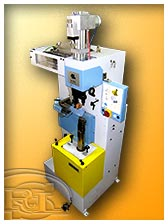
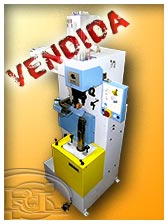
Added: Rebatir ASPERIA. Removed: Rebatir AA. Sold: Clavar tac. BRUSTIA PTP 3000

Changed region(s): [[0.0, 0.0, 0.8036, 0.4062]]

diff --git a/maquinas/rebatir/maqUs_rebatir-con-rodillo-de-anillas_ASPERIA.htm b/maquinas/rebatir/maqUs_rebatir-con-rodillo-de-anillas_ASPERIA.htm
@@ -3,9 +3,9 @@
 
 <head>
 <meta http-equiv="Content-Type" content="text/html; charset=utf-8" />
-<title>RaLoS, Maquinaria USADA para Calzado | Máquina de Rebatir con Rodillo de Lija 'AA'</title>
-<meta name="keywords" content="rebatir aa, lijar aa, rebatir lijar, maquina rebatir, maquina rebatir ocasion, maquina rebatir usada, maquina rebatir zapato, rebatir usada, rebatir ocasion, rebatir calzado, rebatir zapatos, rebatir segunda mano, rebatir piel, maquinaria usada zapatos, maquinas usadas zapatos, segunda mano, ocasion, ralos, Elda, Alicante" />
-<meta name="description" content="RaLoS MAQUINARIA, dispone de una máquina para rebatir el zapato marca 'AA', con rodillo de lija, de ocasión y totalmente resturada, ¡visítanos!" />
+<title>RaLoS, Maquinaria USADA para Calzado | Máquina de Rebatir con Rodillo de Anillas 'ASPERIA'</title>
+<meta name="keywords" content="rebatir asperia, rebatir, maquina rebatir, maquina rebatir ocasion, maquina rebatir usada, maquina rebatir zapato, rebatir usada, rebatir ocasion, rebatir calzado, rebatir zapatos, rebatir segunda mano, rebatir piel, maquinaria usada zapatos, maquinas usadas zapatos, segunda mano, ocasion, ralos, Elda, Alicante" />
+<meta name="description" content="RaLoS MAQUINARIA, dispone de una máquina para rebatir el zapato marca 'ASPERIA', con rodillo de anillas, de ocasión y totalmente resturada, ¡visítanos!" />
 <meta name="creation_Date" content="02/02/2010" />
 <meta name="geography" content="Fundadores de la Industria del Calzado, 4 (Bajos) - Elda (Alicante) 03600 SPAIN" />
 <meta name="language" content="spanish, español" />
@@ -87,14 +87,14 @@ counter++;
   	<div id="mainLogo"><a href="../../index.htm" target="_parent"><img src="../../assets/logoRalos.gif" alt="Inicio" name="logoRalos" width="324" height="102" border="0" /></a></div>
   	<!--<div id="mainLogoBg"></div>-->
   	<div class="divider1"></div>
-		<h1 style="text-decoration: none; margin-bottom: 0px">RaLoS, MAQUINARIA USADA: Máquina de Rebatir con Rodillo de Lija &quot;AA&quot;</h1>
+		<h1 style="text-decoration: none; margin-bottom: 0px">RaLoS, MAQUINARIA USADA: Máquina de Rebatir con Rodillo de Anillas &quot;ASPERIA&quot;</h1>
 <div class="divider2"></div>
     <div id="productContainer">
 			<ul>       
         <li id="n001">
         	<div class="liContainer"><a href="#n002" target="_self" title="Haz clic aquí para ir a la siguiente imagen.">
             <img class="outerImg" src="../../images/_mac_vOuterFrame_mTn.png" alt=""/>
-            <img class="vInnerImg" src="maqUs_rebatirConRodilloDeLija_AA_01hTn.jpg" alt="Máquina de Rebatir con Rodillo de Lija 'AA' 1"/>
+            <img class="vInnerImg" src="maqUs_rebatir-con-rodillo-de-anillas_ASPERIA_1h-v.jpg" alt="Máquina de Rebatir con Rodillo de Anillas 'ASPERIA' 1"/>
             <img class="spanPosFix" src="../../images/_mac_vOuterFrameFix_mTn.gif" alt=""/>
             <span></span></a>
           </div>
@@ -103,7 +103,7 @@ counter++;
         <li id="n002">
         	<div class="liContainer"><a href="#n003" target="_self" title="Haz clic aquí para ir a la siguiente imagen.">
             <img class="outerImg" src="../../images/_mac_hOuterFrame_mTn.png" alt=""/>
-            <img class="hInnerImg" src="maqUs_rebatirConRodilloDeLija_AA_01ahTn.jpg" alt="Máquina de Rebatir con Rodillo de Lija 'AA' 2"/>
+            <img class="hInnerImg" src="maqUs_rebatir-con-rodillo-de-anillas_ASPERIA_2h-h.jpg" alt="Máquina de Rebatir con Rodillo de Anillas 'ASPERIA' 2"/>
             <img class="spanPosFix" src="../../images/_mac_hOuterFrameFix_mTn.gif" alt=""/>
             <span></span></a>
           </div>
@@ -112,7 +112,7 @@ counter++;
         <li id="n003">
         	<div class="liContainer"><a href="#productDescription" target="_self" title="Haz clic aquí para ir a la información de la máquina.">
             <img class="outerImg" src="../../images/_mac_vOuterFrame_mTn.png" alt=""/>
-            <img class="vInnerImg" src="maqUs_rebatirConRodilloDeLija_AA_02hTn.jpg" alt="Máquina de Rebatir con Rodillo de Lija 'AA' 3"/>
+            <img class="vInnerImg" src="maqUs_rebatir-con-rodillo-de-anillas_ASPERIA_3h-v.jpg" alt="Máquina de Rebatir con Rodillo de Anillas 'ASPERIA' 3"/>
             <img class="spanPosFix" src="../../images/_mac_vOuterFrameFix_mTn.gif" alt=""/>
             <span></span></a>
           </div>
@@ -127,29 +127,29 @@ counter++;
           <th colspan="4" bgcolor="#FFFFFF"><h4>DESCRIPCIÓN DE LA MÁQUINA</h4></th>
         </tr>
         <tr>
-       		<td colspan="4"><p><span class="boldText">RaLoS</span> dispone de una máquina de  rebatir con rodillo de lija <span class="boldText">&quot;AA&quot;</span> de segunda mano, totalmente restaurada y lista para trabajar.</p>
-            <p>La máquina de rebatir <span class="boldText">&quot;AA&quot;</span>, está especialmente diseñada para resolver los problemas de acumulación de piel en el proceso de montado del zapato mediante el rebatido de la misma, manteniendo limpio en todo momento el trabajo realizado, gracias al aspirador de polvo incorporado.</p></td>
+       		<td colspan="4"><p><span class="boldText">RaLoS</span> dispone de una máquina de  rebatir con rodillo de anillas <span class="boldText">&quot;ASPERIA&quot;</span> de segunda mano, totalmente restaurada y lista para trabajar.</p>
+            <p>La máquina de rebatir <span class="boldText">&quot;ASPERIA&quot;</span>, está especialmente diseñada para resolver los problemas de acumulación de piel en el proceso de montado del zapato mediante el rebatido de la misma.</p></td>
         </tr>
         <tr bgcolor="#FFFFFF">
           <th colspan="4"><h4>CARACTERÍSTICAS TÉCNICAS</h4></th>
         </tr>
         <tr>
           <td width="50%" colspan="2"><span class="boldText">Conex. Eléctrica: </span>380 V - 50 Hz</td>
-          <td width="50%" colspan="2"><span class="boldText">Dimens. (An./Al./Pr.):</span> 94 x 134 x 52 cm</td>
+          <td width="50%" colspan="2"><span class="boldText">Dimens. (An./Al./Pr.):</span> 70 x 136 x 64 cm</td>
         </tr>
         <tr>
-          <td width="50%" colspan="2"><span class="boldText">Potencia Instalada:</span> 0,75 kW</td>
+          <td width="50%" colspan="2"><span class="boldText">Potencia del Motor:</span> 1,25 kW</td>
           <td width="50%" colspan="2"><span class="boldText">Cubicaje:</span> N/D</td>
         </tr>
         <tr>
-          <td width="50%" colspan="2"><span class="boldText">Producción:</span> +- 1.200 pares/8h</td>
-          <td width="50%" colspan="2"><span class="boldText">Peso Neto (Aprox):</span> 160 Kg</td>
+          <td width="50%" colspan="2"><span class="boldText">Velocidad de Motor:</span> 1.400 r.p.m.</td>
+          <td width="50%" colspan="2"><span class="boldText">Peso Neto (Aprox):</span> N/D</td>
         </tr>
         <tr bgcolor="#FFFFFF">
           <th colspan="4"><h4>CARACTERÍSTICAS DE TRABAJO</h4></th>
         </tr>
 				<tr>
-       		<td colspan="4"><p>La máquina está dotada de un rodillo de anillas independientes de acero templado, así como de un barrón de lija y martillos calefactados para sentar tanto los talones como los cantos de la punta, el empeine, los enfranques y los lados del zapato, porporcionándole así un excelente acabado y un ajuste perfecto con la planta.</p></td>
+       		<td colspan="4"><p>La máquina está dotada tanto de un rodillo de anillas independientes de acero templado como de martillos calefactados para sentar los talones y los cantos de la punta, el empeine, los enfranques y los lados del zapato, porporcionando así un excelente acabado y un ajuste perfecto con la planta.</p></td>
         </tr>
 
         <tr id="rowInfoHead">
@@ -162,7 +162,7 @@ counter++;
           <td width="25%" class="boldText">Disponible</td>
           <td width="50%" colspan="2">Restaurada</td>
         <!--<td width="50%" colspan="2">Máquina revisada en nuestro taller.</td>-->
-          <td width="25%"><a href="http://www.ralosmaquinaria.com/mainFrameContact.htm?Maquina+de+Rebatir+con+Rodillo+de+Lija&'AA'&(OCASION)#formContainer" title="Ir al Formulario de Consulta" target="_self" class="boldText">Consultar</a></td>
+          <td width="25%"><a href="http://www.ralosmaquinaria.com/mainFrameContact.htm?Maquina+de+Rebatir+con+Rodillo+de+Anillas&'ASPERIA'&(OCASION)#formContainer" title="Ir al Formulario de Consulta" target="_self" class="boldText">Consultar</a></td>
   				</tr>
 			</table>
 		</div><!--end productDescription-->

diff --git a/maquinas/clavar/maqUs_clavarTacones_BRUSTIA_PTP_3000.htm b/maquinas/clavar/maqUs_clavarTacones_BRUSTIA_PTP_3000.htm
@@ -87,7 +87,7 @@ counter++;
   	<div id="mainLogo"><a href="../../index.htm" target="_parent"><img src="../../assets/logoRalos.gif" alt="Inicio" name="logoRalos" width="324" height="102" border="0" /></a></div>
   	<!--<div id="mainLogoBg"></div>-->
   	<div class="divider1"></div>
-		<h1 style="text-decoration: none; margin-bottom: 0px">RaLoS, MAQUINARIA USADA: Máquina de Clavar Tacones &quot;BRUSTIA&nbsp;PTP&nbsp;3000&quot;</h1>
+		<h1 style="text-decoration: none; margin-bottom: 0px">RaLoS, MAQUINARIA USADA: Máquina de Clavar Tacones &quot;BRUSTIA&nbsp;PTP&nbsp;3000&quot; (VENDIDA)</h1>
     <div class="divider2"></div>
     <div id="productContainer">
 			<ul>       
@@ -127,7 +127,7 @@ counter++;
           <th colspan="4" bgcolor="#FFFFFF"><h4>DESCRIPCIÓN DE LA MÁQUINA</h4></th>
         </tr>
         <tr>
-       		<td colspan="4"><p><span class="boldText">RaLoS</span> dispone de una máquina de clavar tacones automática, neumática y con secuencia de clavado programable <span class="boldText">&quot;BRUSTIA PTP 3000&quot;</span> de segunda mano, en perfecto estado y lista para trabajar.</p></td>
+       		<td colspan="4"><p><span class="boldText">RaLoS</span> <span class="lThrought">dispone</span> de una máquina de clavar tacones automática, neumática y con secuencia de clavado programable <span class="boldText">&quot;BRUSTIA PTP 3000&quot;</span> de segunda mano, en perfecto estado y lista para trabajar.</p></td>
         </tr>
         <tr bgcolor="#FFFFFF">
           <th colspan="4"><h4>CARACTERÍSTICAS TÉCNICAS</h4></th>
@@ -166,7 +166,7 @@ counter++;
         </tr>
 
         <tr id="rowInfo">
-          <td width="25%" class="boldText">Disponible</td>
+          <td width="25%" class="boldText">No disponible</td>
           <td width="50%" colspan="2">En condiciones de trabajo.</td>
         <!--<td width="50%" colspan="2">Máquina revisada en nuestro taller.</td>-->
           <td width="25%"><a href="http://www.ralosmaquinaria.com/mainFrameContact.htm?Maquina+de+Clavar+Tacones&'BRUSTIA+PTP+3000'&(OCASION)#formContainer" title="Ir al Formulario de Consulta" target="_self" class="boldText">Consultar</a></td>

diff --git a/index.htm b/index.htm
@@ -815,11 +815,11 @@ div .mainFooterContent {
         </li>
 
         <li>
-					<div class="liContainer"><a href="maquinas/rebatir/maqUs_rebatirConRodilloDeLija_AA.htm" target="mainFrame" title="Ver Máquina de Rebatir Zapato con Rodillo de Lija &quot;AA&quot;">
+					<div class="liContainer"><a href="maquinas/rebatir/maqUs_rebatir-con-rodillo-de-anillas_ASPERIA.htm" target="mainFrame" title="Ver Máquina de Rebatir Zapato con Rodillo de Anillas &quot;ASPERIA&quot;">
             <img class="outerImg" alt="" src="images/_mac_vOuterFrame_mTn.png"/>
-            <img class="vInnerImg" alt="Máquina de Rebatir Zapato con Rodillo de Lija &quot;AA&quot;" src="maquinas/rebatir/maqUs_rebatirConRodilloDeLija_AA_01mTn.jpg"/>
+            <img class="vInnerImg" alt="Máquina de Rebatir Zapato con Rodillo de Anillas &quot;AA&quot;" src="maquinas/rebatir/maqUs_rebatir-con-rodillo-de-anillas_ASPERIA_1m-v.jpg"/>
             <img class="spanPosFix" alt="" src="images/_mac_vOuterFrameFix_mTn.gif"/>
-            <span>Rebatir Zapato con Rodillo de Lija &quot;AA&quot;</span></a>
+            <span>Rebatir Zapato &quot;ASPERIA&quot;</span></a>
 					</div>
         </li>
 

diff --git a/maquinaria-Ocasion.htm b/maquinaria-Ocasion.htm
@@ -608,11 +608,11 @@ location.href="index.htm?" + document.URL
       <img class="IMGv" alt="Rebajadora de Piel con Embrague 'FAV AV2'" src="maquinas/rebajar/maqUs_rebajar-piel-con-embrague_FAV_AV2_1m-v.jpg"/>
       <span>Rebajar Piel con Embrague &quot;FAV AV2&quot;</span></a>
       </div></li>
-      
+
        <li><div class="liContainer">
-      <a class="Av" href="maquinas/rebatir/maqUs_rebatirConRodilloDeLija_AA.htm" target="mainFrame" title="Ver: Máq. de Rebatir 'AA'">
-      <img class="IMGv" alt="Máquina de Rebatir Zapato con Rodillo de Lija 'AA'" src="maquinas/rebatir/maqUs_rebatirConRodilloDeLija_AA_01mTn.jpg"/>
-      <span>Rebatir Zapato con Rodillo de Lija &quot;AA&quot;</span></a>
+      <a class="Av" href="maquinas/rebatir/maqUs_rebatir-con-rodillo-de-anillas_ASPERIA.htm" target="mainFrame" title="Ver: Máq. de Rebatir 'ASPERIA'">
+      <img class="IMGv" alt="Máquina de Rebatir Zapato con Rodillo de Anillas 'ASPERIA'" src="maquinas/rebatir/maqUs_rebatir-con-rodillo-de-anillas_ASPERIA_1m-v.jpg"/>
+      <span>Rebatir Zapato &quot;ASPERIA&quot;</span></a>
       </div></li>
 
        <li><div class="liContainer">
